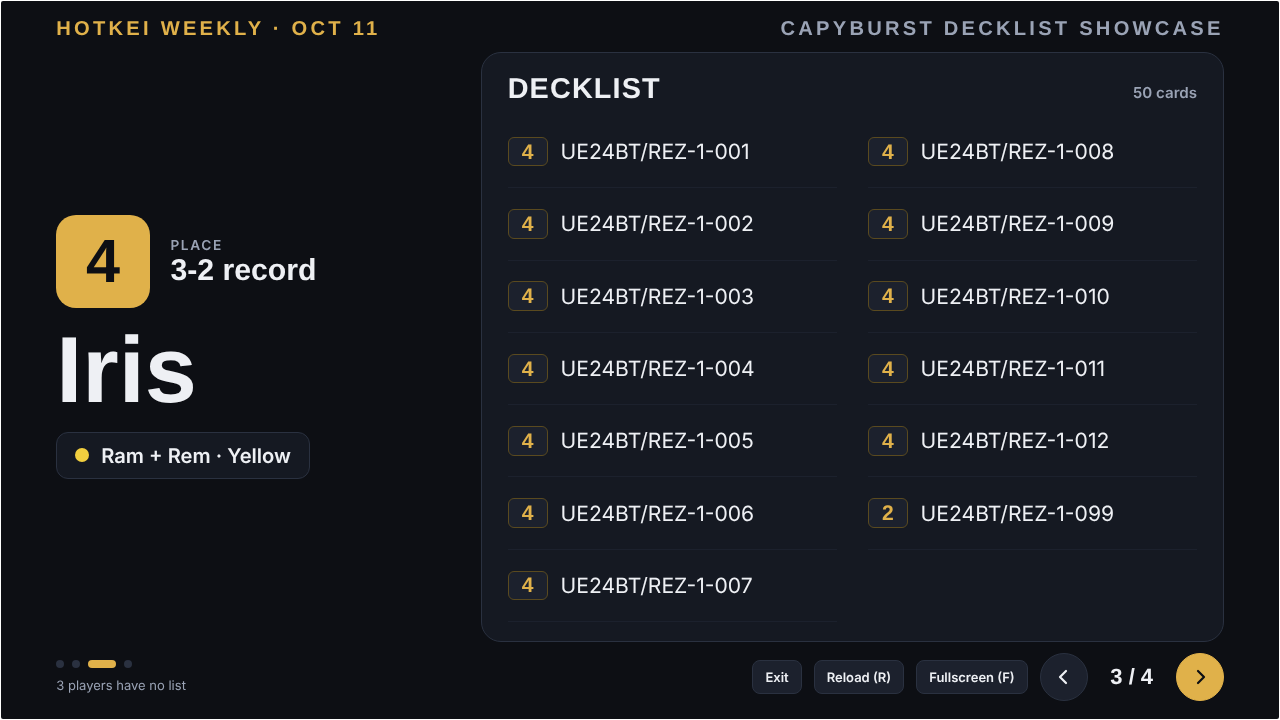
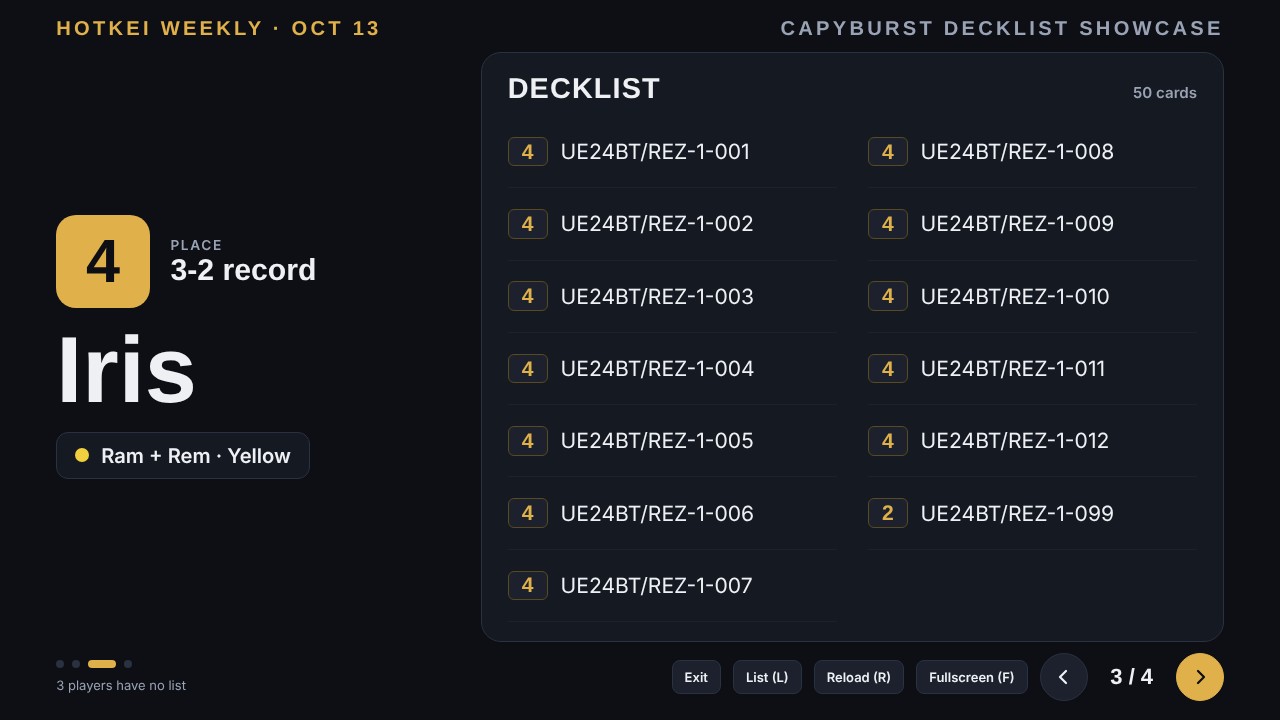
v0.1.3: presentation opens on a standings list; pick a player to show their decklist
Claude-Session: https://claude.ai/code/session_01AVt5hWhybi9vEcXTd5Rvm1

Changed region(s): [[0.5, 0.9167, 0.625, 0.9778], [0.2812, 0.0306, 0.3125, 0.0611]]

diff --git a/js/views/present.js b/js/views/present.js
@@ -13,7 +13,8 @@ export function columnsFor(n) {
   return n <= 18 ? 2 : n <= 39 ? 3 : 4;
 }
 
-export async function presentView(eventId, startIndex = 0) {
+// startIndex < 0 opens the standings list; >= 0 opens that player's slide directly.
+export async function presentView(eventId, startIndex = -1) {
   let alive = true;
   onLeave(() => { alive = false; document.body.classList.remove('presenting'); });
   const shell = h('div', { class: 'shell' }, h('main', { class: 'page' }, spinner('Loading lists...')));
@@ -44,9 +45,12 @@ export async function presentView(eventId, startIndex = 0) {
     return;
   }
 
+  let view = startIndex >= 0 ? 'slide' : 'list';
   let i = Math.min(Math.max(0, startIndex), slides.length - 1);
   let zoom = null;
   const photos = new Map(); // deckId -> {state:'loading'|'ready'|'error', url, promise}
+
+  function onSlide(deckId) { return view === 'slide' && slides[i] && slides[i].deck.deckId === deckId; }
 
   function ensurePhoto(deckId) {
     let p = photos.get(deckId);
@@ -58,18 +62,18 @@ export async function presentView(eventId, startIndex = 0) {
         if (!/^image\/(jpeg|png|webp)$/.test(r.mime)) throw new Error('Unexpected image type');
         p.url = b64ToUrl(r.mime, r.base64);
         p.state = 'ready';
-        if (alive && slides[i] && slides[i].deck.deckId === deckId) render();
+        if (alive && onSlide(deckId)) render();
       },
       () => {
         p.state = 'error';
-        if (alive && slides[i] && slides[i].deck.deckId === deckId) render();
+        if (alive && onSlide(deckId)) render();
       }
     );
     return p;
   }
   function prefetch() {
     let found = 0;
-    for (let k = i; k < slides.length && found < 3; k++) {
+    for (let k = view === 'slide' ? i : 0; k < slides.length && found < 3; k++) {
       if (slides[k].deck.type === 'photo') {
         ensurePhoto(slides[k].deck.deckId);
         found++;
@@ -123,7 +127,40 @@ export async function presentView(eventId, startIndex = 0) {
     };
   }
 
+  function renderList() {
+    const n = data.entries.length;
+    const cols = n <= 8 ? 1 : n <= 16 ? 2 : 3;
+    const rows = Math.ceil(n / cols);
+    const items = data.entries.map((e) => {
+      const d = e.deck;
+      const inner = [
+        h('span', { class: 'sl-rank', text: String(e.rank) }),
+        h('span', { class: 'sl-who' },
+          h('span', { class: 'sl-name', text: e.name }),
+          e.record ? h('span', { class: 'sl-rec', text: e.record }) : null),
+        h('span', { class: 'sl-deck' },
+          d ? [h('span', { class: 'dot ' + d.deckColor }), h('span', { text: d.deckName || d.deckColor })] : h('span', { class: 'sl-none', text: 'No list yet' }))
+      ];
+      if (!d) return h('div', { class: 'sl-row none' }, inner);
+      const idx = slides.indexOf(e);
+      return h('button', { class: 'sl-row', type: 'button', 'aria-label': 'Show the decklist of ' + e.name, onclick: () => { view = 'slide'; i = idx; render(); } }, inner);
+    });
+    root.replaceChildren(
+      h('div', { class: 'pres-top' },
+        h('span', { class: 'ev', text: evName + ' · ' + shortDate(evDate) }),
+        h('span', { class: 'app', text: 'Standings' })),
+      h('div', { class: 'standings' + (cols > 1 ? ' multi' : ''), style: '--rows:' + rows + ';--scols:' + cols }, items),
+      h('div', { class: 'pres-bottom' },
+        h('div', { class: 'stack pres-dots' }, h('span', { class: 'hint', text: 'Click a player to show their decklist' + (missing ? ' · ' + missing + (missing === 1 ? ' player has' : ' players have') + ' no list' : '') })),
+        h('div', { class: 'nav' },
+          h('div', { class: 'pres-tools tools' },
+            h('button', { class: 'btn small', type: 'button', onclick: exit }, 'Exit'),
+            h('button', { class: 'btn small', type: 'button', onclick: reload }, 'Reload (R)'),
+            h('button', { class: 'btn small fs-btn', type: 'button', onclick: toggleFullscreen }, 'Fullscreen (F)')))));
+  }
+
   function render() {
+    if (view === 'list') { renderList(); return; }
     const e = slides[i];
     const d = e.deck;
     const panel = d.type === 'txt' ? textPanel(e) : d.type === 'photo' ? photoPanel(e) : linkPanel(e);
@@ -149,6 +186,7 @@ export async function presentView(eventId, startIndex = 0) {
         h('div', { class: 'nav' },
           h('div', { class: 'pres-tools tools' },
             h('button', { class: 'btn small', type: 'button', onclick: exit }, 'Exit'),
+            h('button', { class: 'btn small', type: 'button', onclick: showList }, 'List (L)'),
             h('button', { class: 'btn small', type: 'button', onclick: reload }, 'Reload (R)'),
             h('button', { class: 'btn small fs-btn', type: 'button', onclick: toggleFullscreen }, 'Fullscreen (F)')),
           h('div', { class: 'pres-arrows' },
@@ -165,7 +203,15 @@ export async function presentView(eventId, startIndex = 0) {
     return ['Jan', 'Feb', 'Mar', 'Apr', 'May', 'Jun', 'Jul', 'Aug', 'Sep', 'Oct', 'Nov', 'Dec'][Number(m[2]) - 1] + ' ' + Number(m[3]);
   }
 
+  function showList() {
+    zoom = null;
+    document.querySelector('.pres-zoom')?.remove();
+    view = 'list';
+    render();
+  }
+
   function go(delta) {
+    if (view !== 'slide') return;
     const n = Math.min(slides.length - 1, Math.max(0, i + delta));
     if (n === i) return;
     i = n;
@@ -195,7 +241,7 @@ export async function presentView(eventId, startIndex = 0) {
   }
   // Fetches the lists again (players may have sent more while presenting) and keeps the current slide.
   function reload() {
-    const keep = i;
+    const keep = view === 'list' ? -1 : i;
     runLeave();
     presentView(eventId, keep);
   }
@@ -210,12 +256,13 @@ export async function presentView(eventId, startIndex = 0) {
     switch (ev.key) {
       case 'ArrowRight': case 'PageDown': case ' ': ev.preventDefault(); go(1); break;
       case 'ArrowLeft': case 'PageUp': ev.preventDefault(); go(-1); break;
-      case 'Home': i = 0; render(); break;
-      case 'End': i = slides.length - 1; render(); break;
+      case 'Home': if (view === 'slide') { i = 0; render(); } break;
+      case 'End': if (view === 'slide') { i = slides.length - 1; render(); } break;
+      case 'l': case 'L': if (view === 'slide') showList(); break;
       case 'f': case 'F': toggleFullscreen(); break;
-      case 'z': case 'Z': toggleZoom(); break;
+      case 'z': case 'Z': if (view === 'slide') toggleZoom(); break;
       case 'r': case 'R': reload(); break;
-      case 'Escape': if (zoom) toggleZoom(); else if (!document.fullscreenElement) exit(); break;
+      case 'Escape': if (zoom) toggleZoom(); else if (view === 'slide') showList(); else if (!document.fullscreenElement) exit(); break;
       default: return;
     }
   }

diff --git a/css/styles.css b/css/styles.css
@@ -264,3 +264,29 @@ input[type="date"].input::-webkit-date-and-time-value { text-align: left; }
   .nav .round { width: 40px; height: 40px; }
   .nav .count { font-size: 18px; }
 }
+
+/* ---- presentation: standings list ---- */
+.standings { flex: 1; min-height: 0; display: grid; grid-auto-flow: column; grid-template-columns: repeat(var(--scols, 1), minmax(0, 1fr)); grid-template-rows: repeat(var(--rows, 1), minmax(0, 9.5vh)); column-gap: 2.4vw; row-gap: 1vh; align-content: start; font-size: min(3.6vh, calc(66vh / var(--rows) / 1.9)); }
+.sl-row { all: unset; box-sizing: border-box; display: flex; align-items: center; gap: 0.8em; padding: 0 0.9em; min-height: 0; border: 1px solid var(--line); border-radius: 0.6em; background: var(--card); cursor: pointer; font-family: var(--font-head); overflow: hidden; }
+.sl-row:hover, .sl-row:focus-visible { border-color: var(--gold); outline: none; }
+.sl-row.none { opacity: 0.45; cursor: default; }
+.sl-rank { flex: none; min-width: 1.8em; height: 1.8em; border-radius: 0.45em; background: var(--gold); color: #0d0f14; display: flex; align-items: center; justify-content: center; font-weight: 700; font-size: 1em; }
+.sl-row.none .sl-rank { background: #2a2f3d; color: var(--muted); }
+.sl-who { flex: 1 1 auto; min-width: 0; display: flex; align-items: baseline; gap: 0.6em; }
+.sl-name { font-weight: 700; font-size: 1.15em; white-space: nowrap; overflow: hidden; text-overflow: ellipsis; }
+.sl-rec { color: var(--muted); font-size: 0.8em; white-space: nowrap; }
+.sl-deck { flex: none; max-width: 52%; display: flex; align-items: center; gap: 0.5em; font-size: 0.95em; font-weight: 600; white-space: nowrap; overflow: hidden; }
+.sl-deck > span:last-child { overflow: hidden; text-overflow: ellipsis; }
+.sl-none { color: var(--muted); font-style: italic; font-weight: 500; }
+@media (max-width: 760px) {
+  .standings { display: flex; flex-direction: column; overflow: auto; font-size: 17px; gap: 8px; }
+  .sl-row { min-height: 56px; flex: none; }
+  .sl-deck { max-width: 45%; }
+}
+
+/* Several columns: the deck goes under the name so long names are not cut. */
+.standings.multi { font-size: min(3.2vh, calc(62vh / var(--rows) / 1.9)); }
+.standings.multi .sl-row { display: grid; grid-template-columns: auto minmax(0, 1fr); grid-template-areas: "rank who" "rank deck"; column-gap: 0.8em; row-gap: 0; align-content: center; }
+.standings.multi .sl-rank { grid-area: rank; }
+.standings.multi .sl-who { grid-area: who; }
+.standings.multi .sl-deck { grid-area: deck; max-width: none; font-size: 0.8em; color: var(--muted); font-weight: 500; }

diff --git a/CHANGELOG.md b/CHANGELOG.md
@@ -1,5 +1,10 @@
 # Changelog
 
+## 0.1.3
+- **Presentación con listado por posiciones**: al presentar, ahora se abre primero una pantalla con todos los jugadores en orden de posición, con su nombre, récord y el deck que usaron (color y nombre). Tú eliges a quién mostrar: haces clic en un jugador y se abre su decklist. Con el botón **List (L)** o la tecla **L** (o **Esc**) vuelves al listado; **Esc** otra vez sale de la presentación. Las flechas siguen pasando de un jugador a otro.
+- Los jugadores que aún no enviaron lista aparecen atenuados con "No list yet" y no se pueden abrir.
+- Hasta 8 jugadores se muestran en 1 columna, hasta 16 en 2 y más en 3, para que todo quepa en una sola pantalla al grabar. En celular es una lista con scroll.
+
 ## 0.1.2
 - **Presentación en celular**: los botones de abajo (flechas, contador, Exit, Reload) ya no se salen de la pantalla ni quedan tapados. En vertical se apilan (flechas grandes arriba, Exit/Reload abajo); en horizontal todo cabe en una línea. Se puede **deslizar** el dedo a izquierda/derecha para cambiar de jugador. Respeta la barra inferior del iPhone.
 - **Crear torneo en celular**: botones "Create & get link" y "Cancel" a todo el ancho (ya no se parte el texto), campos de 16 px (Safari ya no hace zoom al tocar), selector de fecha uniforme.

diff --git a/docs/GUIA_USUARIO.md b/docs/GUIA_USUARIO.md
@@ -35,7 +35,9 @@ El panel muestra cuántas listas llevan y cuándo se borra cada torneo. *Mine on
 ![Editar torneo](screenshots/07-edit-desktop.png)
 
 ### 5. Presentar y grabar
-Pulsa **Present**. Solo se muestran los jugadores que enviaron lista.
+Pulsa **Present**. Primero verás el **listado por posiciones** con el nombre y el deck de cada jugador (los que no enviaron lista salen atenuados). Haz clic en un jugador para mostrar su decklist; con **List (L)** vuelves al listado.
+
+![Listado](screenshots/10-present-standings.png)
 
 | Tecla | Acción |
 |---|---|
@@ -43,7 +45,8 @@ Pulsa **Present**. Solo se muestran los jugadores que enviaron lista.
 | ← / Av Pág | Anterior |
 | F | Pantalla completa |
 | Z | Ampliar la imagen (otra vez, o Esc, para cerrar) |
-| Esc | Salir (si no estás en pantalla completa) |
+| L | Volver al listado |
+| Esc | Cierra la imagen ampliada; luego vuelve al listado; en el listado, sale (si no estás en pantalla completa) |
 
 Los botones se ocultan solos en pantalla completa si no mueves el mouse. Las imágenes se precargan; si una tarda, verás "Loading photo…".
 

diff --git a/TECHNICAL_CHANGELOG.md b/TECHNICAL_CHANGELOG.md
@@ -1,5 +1,9 @@
 # Technical changelog
 
+## 0.1.3
+- `presentView(eventId, startIndex = -1)`: `view` = `list` | `slide`; `renderList()` pinta todos los `entries` (no solo los que tienen deck); `showList()`; teclas L / Esc (slide -> list -> salir); Home/End/Z/flechas solo en slide; Reload conserva la vista. CSS `.standings` (grid por columnas, `.multi` apila el deck bajo el nombre).
+- Pruebas e2e: +1 (listado: orden, clic, volver, recarga), las existentes ahora abren primero un jugador desde el listado. Total 80.
+
 ## 0.1.2
 - `manifest.webmanifest` + `apple-touch-icon` (180), `icon-192/512`, `icon-maskable-512` (opacos, fondo #0d0f14, generados de `assets/logo.png`); meta `theme-color`, `apple-mobile-web-app-*`, `viewport-fit=cover`. iOS ignora los íconos del manifest y usa apple-touch-icon.
 - Presentación: barra inferior reestructurada (`.pres-tools` / `.pres-arrows`), media queries ≤760 px y landscape bajo, safe-area insets, swipe táctil, botón Fullscreen oculto en `(hover:none)`.
